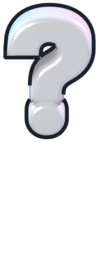
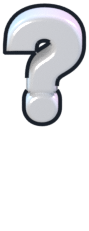
fix: tone down the unidentified symbols' pillars and size
The light pillar around the unidentified ?, ! and & outshone the identified
characters in the game; it is now drawn at 21% of its color. The symbols are
also built at 90% of their former size.

Changed region(s): [[0.0225, 0.0, 0.9663, 0.5758], [0.764, 0.0909, 0.7865, 0.1212]]

diff --git a/src/arlq/sprite_funcs.py b/src/arlq/sprite_funcs.py
@@ -81,6 +81,9 @@ SPRITE_FILES = {
 # near-white symbol takes on only this fraction of that color.
 UNKNOWN_SPRITES = ('?', '!', '&')
 UNKNOWN_TINT = 0.4
+# Their pillar is dimmed to this fraction, so it does not outshine the
+# identified characters around it.
+UNKNOWN_PILLAR = 0.21
 MEMBER_SPRITES = {'J': 'jester', 'H': 'healer', 'R': 'rogue',
                   'K': 'knight', 'G': 'guardian', 'D': 'explorer'}
 MEMBER_SKINS = ('light', 'medium', 'dark')
@@ -1670,7 +1673,8 @@ class SpriteUI(PygletUI):
             green = COLOR_MAP[CI_GREEN]
             self._draw_pillar(cx, cy, size, y, self._dim_color(green) if dimmed else green)
         elif text in UNKNOWN_SPRITES:
-            self._draw_pillar(cx, cy, size, y, tuple(round(c * shade) for c in color))
+            self._draw_pillar(cx, cy, size, y,
+                              tuple(round(c * shade * UNKNOWN_PILLAR) for c in color))
         tribe = d.CHAR_TO_MONSTER_TRIBE.get(text)
         if (upper_right_color is None and tribe is not None
                 and tribe.effect == d.EFFECT_UNLOCK_TREASURE

diff --git a/tests/test_sprite_ui.py b/tests/test_sprite_ui.py
@@ -75,8 +75,9 @@ def test_unknown_amoeba_does_not_disclose_model(sprite_ui, monkeypatch):
         sprite_ui._draw_field_text((glyph.x, glyph.y), glyph.char, (244, 190, 78))
     assert not sprite_ui.text_calls
     assert sprite_ui._drawables[0].image is sprite_ui._sprite_images['?']
-    # The symbol stands in a pillar of its text color.
-    assert [args[-1] for args in pillars] == [(244, 190, 78)]
+    # The symbol stands in a dimmed pillar of its text color.
+    assert [args[-1] for args in pillars] == [
+        tuple(round(c * sprite_funcs.UNKNOWN_PILLAR) for c in (244, 190, 78))]
 
 
 

diff --git a/dev-samples/3d-stage1/build-heroic.py b/dev-samples/3d-stage1/build-heroic.py
@@ -117,7 +117,7 @@ SIZES = {'@': 1.42, '@c': 1.42, '@C': 1.42, '@K': 1.42, 'a': 0.9, 'A': 0.9, 'b':
          'explorer-light': 1.49, 'explorer-medium': 1.49, 'explorer-dark': 1.49,
          'knight-light': 1.79, 'knight-medium': 1.79, 'knight-dark': 1.79,
          'guardian-light': 1.49, 'guardian-medium': 1.49, 'guardian-dark': 1.49,
-         '?': 1.45, '!': 1.45, '&': 1.45}
+         '?': 1.3, '!': 1.3, '&': 1.3}
 # The unknown symbols float this high above the floor and lean back this many
 # degrees, so they read almost undistorted from the 60-degree camera.
 UNKNOWN_FLOAT = 0.2
